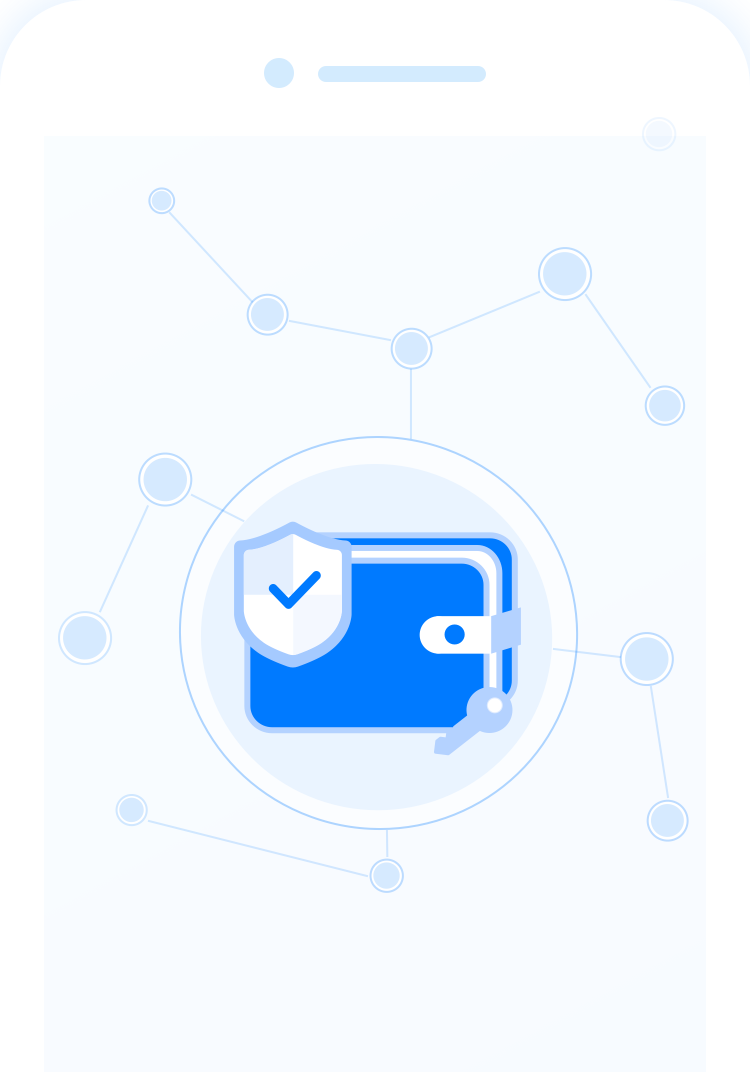
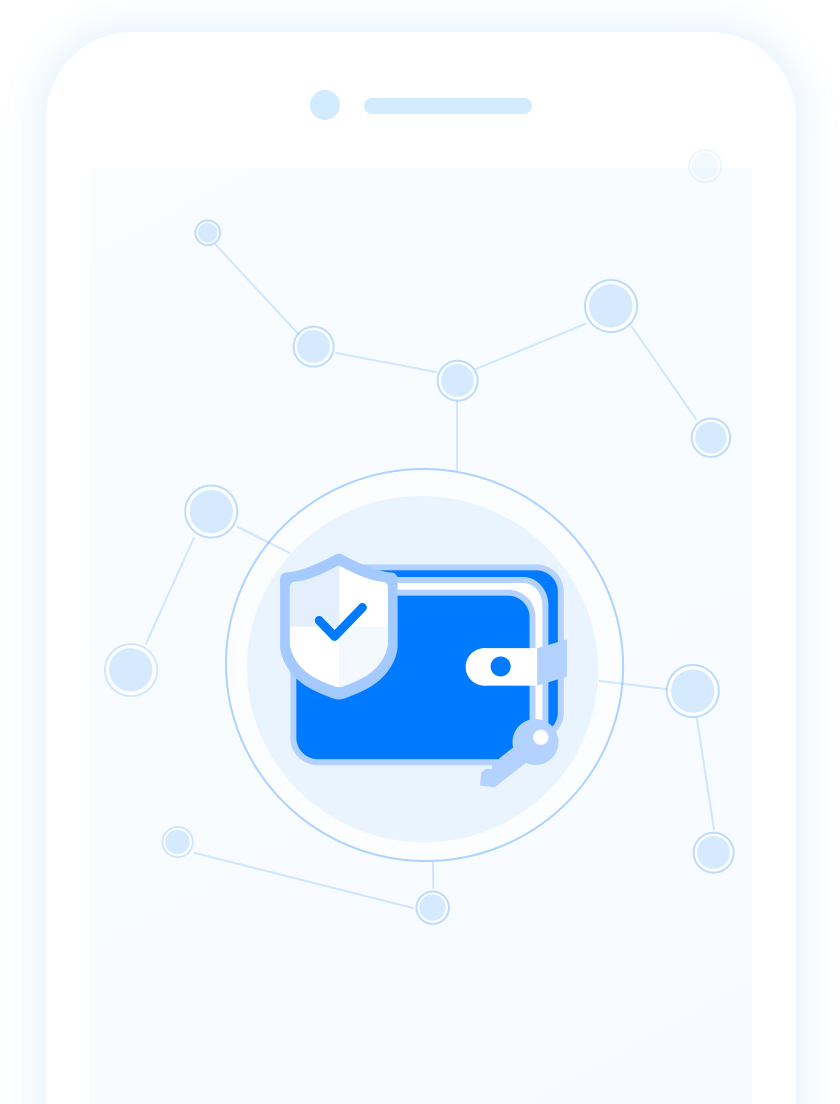
bugfix

diff --git a/components/HomeSection.vue b/components/HomeSection.vue
@@ -290,6 +290,7 @@ $desc-max-width: 600px;
   }
   .home-section__btn-group {
     width: 100%;
+    font-weight: 600;
     & > a {
       width: auto;
       height: 54px;
@@ -519,9 +520,14 @@ $desc-max-width: 600px;
     }
     .home-section__img {
       width: 31.25%;
-      margin-top: 131px;
       max-width: 375px;
       text-align: right;
+      display: flex;
+      flex-direction: row;
+      align-items: flex-end;
+      & > div {
+        display: flex;
+      }
     }
   }
 
@@ -613,7 +619,14 @@ $desc-max-width: 600px;
   &-syracoin {
     .home-section__img {
       max-width: 375px;
-      max-height: 487px;
+      max-height: auto;
+      margin-top: unset;
+      display: flex;
+      flex-direction: row;
+      align-items: flex-end;
+      & > div {
+        display: flex;
+      }
     }
   }
 

diff --git a/components/PageHeader.vue b/components/PageHeader.vue
@@ -124,7 +124,7 @@ export default {
     font-size: 14px;
     font-family: $font-family-light;
     line-height: 30px;
-    max-width: 500px;
+    max-width: 600px;
     p {
       margin-top: 10px;
     }
